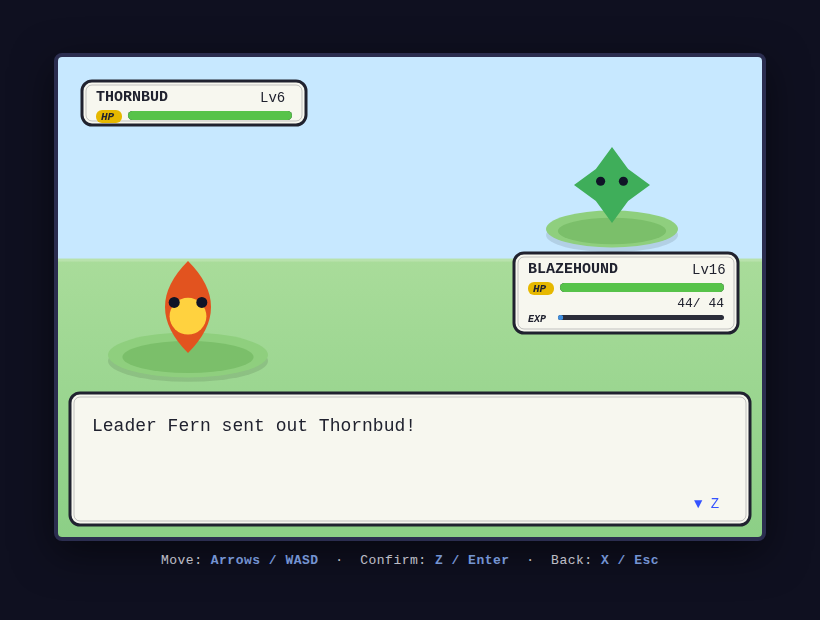
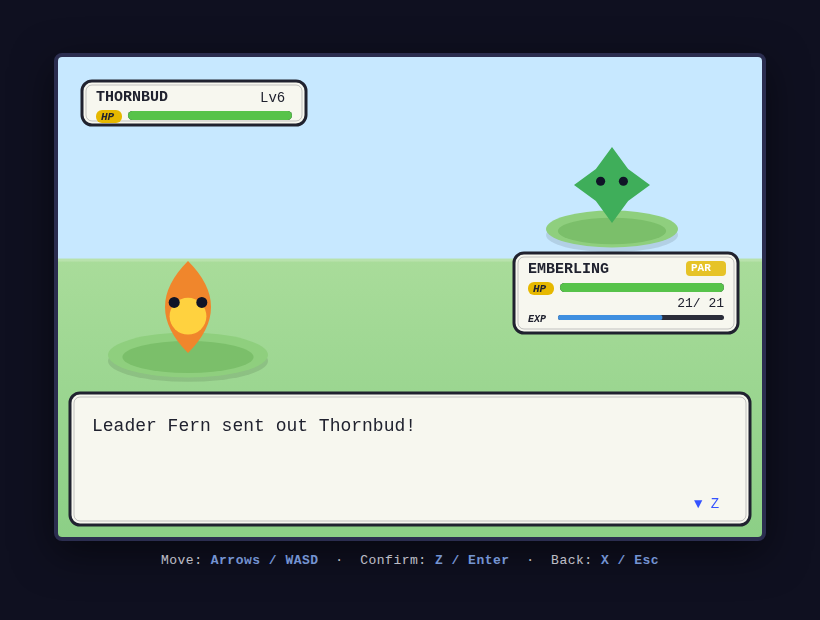
Storage PC — complete the catching/party system (#7)
Closes the one real dead-end: creatures caught while the party was full went to
storage with no way to retrieve them. A Storage PC (accessible at both Heal
Centers) now lets you deposit party members and withdraw stored creatures, with
guards (keep >=1 in party, respect the 6-slot cap). Box contents already persist
through save/load.

New STATE.PC screen (party | box panels), engine/pc.js, pc_render.js, and a PC
NPC in each center. Tests: logic +4 (deposit/withdraw invariants), UI +6 (open
PC, withdraw, deposit, exit). 264 total, all green.

Claude-Session: https://claude.ai/code/session_01VMdewH2fTNG76LLEnWsMm4

diff --git a/pokemon/src/render/pc_render.js b/pokemon/src/render/pc_render.js
@@ -1,0 +1,34 @@
+/* Storage PC screen: PARTY panel (left) and BOX panel (right); move creatures
+ * between them. */
+import { ctx, W, H } from "../core/screen.js";
+import { player, pc } from "../state.js";
+import { drawBox } from "./hud.js";
+
+function panel(title, list, x, y, w, h, active, index) {
+  drawBox(x, y, w, h, 8);
+  ctx.fillStyle = "#20222f"; ctx.textBaseline = "top"; ctx.textAlign = "left";
+  ctx.font = "bold 16px 'Courier New', monospace"; ctx.fillText(title, x + 16, y + 12);
+  ctx.font = "15px 'Courier New', monospace";
+  if (!list.length) { ctx.fillStyle = "#9a9aa6"; ctx.fillText("(empty)", x + 20, y + 44); }
+  list.slice(0, 8).forEach((c, i) => {
+    const sel = active && i === index;
+    ctx.fillStyle = sel ? "#d63c3c" : (c.hp > 0 ? "#20222f" : "#a0a0a8");
+    ctx.fillText((sel ? "▶ " : "  ") + `${c.name} Lv${c.level}`, x + 16, y + 42 + i * 22);
+  });
+}
+
+export function renderPc() {
+  ctx.fillStyle = "#1a2138"; ctx.fillRect(0, 0, W, H);
+  ctx.fillStyle = "#e9e9f2"; ctx.textAlign = "center"; ctx.textBaseline = "top";
+  ctx.font = "bold 20px 'Courier New', monospace"; ctx.fillText("STORAGE PC", W / 2, 20);
+  ctx.textAlign = "left";
+
+  const pw = (W - 60) / 2, ph = H - 130;
+  panel(`PARTY (${player.party.length}/6)`, player.party, 20, 60, pw, ph, pc.panel === 0, pc.index);
+  panel(`BOX (${player.box.length})`, player.box, 40 + pw, 60, pw, ph, pc.panel === 1, pc.index);
+
+  drawBox(20, H - 60, W - 40, 46, 8);
+  ctx.fillStyle = "#20222f"; ctx.font = "14px 'Courier New', monospace"; ctx.textBaseline = "top";
+  ctx.fillText(pc.panel === 0 ? "Z = deposit to box" : "Z = withdraw to party", 34, H - 46);
+  ctx.fillStyle = "#3553ff"; ctx.textAlign = "right"; ctx.fillText("←/→ switch  ·  X = exit", W - 34, H - 46); ctx.textAlign = "left";
+}

diff --git a/pokemon/src/engine/pc.js b/pokemon/src/engine/pc.js
@@ -1,0 +1,23 @@
+/* Storage PC: move creatures between the active party and box storage. */
+import { CONFIG } from "../data/config.js";
+import { player } from "../state.js";
+
+// Deposit a party member to the box. Keeps at least one creature in the party.
+export function depositToBox(i) {
+  if (player.party.length <= 1) return false;
+  const c = player.party[i];
+  if (!c) return false;
+  player.party.splice(i, 1);
+  player.box.push(c);
+  return true;
+}
+
+// Withdraw a stored creature to the party (up to the party cap).
+export function withdrawFromBox(i) {
+  if (player.party.length >= CONFIG.party.max) return false;
+  const c = player.box[i];
+  if (!c) return false;
+  player.box.splice(i, 1);
+  player.party.push(c);
+  return true;
+}

diff --git a/pokemon/src/input.js b/pokemon/src/input.js
@@ -1,11 +1,12 @@
 /* Keyboard input: held directions for walking + discrete presses routed by
  * game state (title menu, dialog, overworld, battle). */
-import { STATE, game, shop } from "./state.js";
+import { STATE, game, shop, pc, player } from "./state.js";
 import { advanceDialog } from "./engine/dialog.js";
 import { interact, tryMove } from "./engine/world.js";
 import { battleInput } from "./engine/battle.js";
 import { newGame, continueGame, saveGame } from "./engine/save.js";
 import { buyItem } from "./engine/shop.js";
+import { depositToBox, withdrawFromBox } from "./engine/pc.js";
 import { titleOptions } from "./render/scenes.js";
 
 export const keys = new Set();
@@ -28,8 +29,20 @@ export function onPress(a) {
       break;
     case STATE.BATTLE: battleInput(a); break;
     case STATE.SHOP: shopInput(a); break;
+    case STATE.PC: pcInput(a); break;
     case STATE.CREDITS: break;
   }
+}
+
+function pcInput(a) {
+  if (a === "left") pc.panel = 0;
+  if (a === "right") pc.panel = 1;
+  const list = pc.panel === 0 ? player.party : player.box;
+  const n = Math.max(1, list.length);
+  if (a === "up") pc.index = (pc.index - 1 + n) % n;
+  if (a === "down") pc.index = (pc.index + 1) % n;
+  if (a === "action") { (pc.panel === 0 ? depositToBox : withdrawFromBox)(pc.index); pc.index = 0; }
+  if (a === "cancel") { saveGame(); game.state = STATE.WORLD; }
 }
 
 function shopInput(a) {

diff --git a/pokemon/src/engine/world.js b/pokemon/src/engine/world.js
@@ -3,7 +3,7 @@ import { CONFIG } from "../data/config.js";
 import { MAPS, WARPS, GATES, npcAt, isBlocked, tileAt, isEncounterTile } from "../data/maps.js";
 import { ENCOUNTERS } from "../data/encounters.js";
 import { STORY } from "../data/story.js";
-import { STATE, DIRV, player, game, flags, shop } from "../state.js";
+import { STATE, DIRV, player, game, flags, shop, pc } from "../state.js";
 import { SHOP_STOCK } from "../data/items.js";
 import { rand } from "../core/rng.js";
 import { say } from "./dialog.js";
@@ -96,6 +96,9 @@ export function interact() {
       break;
     case "shop":
       say(STORY.shopWelcome, () => { shop.stock = SHOP_STOCK.slice(); shop.index = 0; game.state = STATE.SHOP; });
+      break;
+    case "pc":
+      say(STORY.pcBoot, () => { pc.panel = 0; pc.index = 0; game.state = STATE.PC; });
       break;
     case "trainer":
       if (npc.defeated) { say([`${npc.name}: Great battle earlier!`]); break; }

diff --git a/pokemon/src/data/maps.js b/pokemon/src/data/maps.js
@@ -119,8 +119,8 @@ export const GATES = {
 
 export const NPCS = {
   lab: [{ x: 6, y: 2, color: "#e6e6e6", role: "prof", name: "Prof. Cedar" }],
-  center: [{ x: 6, y: 2, color: "#ff8fb0", role: "nurse", name: "Nurse" }],
-  center2: [{ x: 6, y: 2, color: "#ff8fb0", role: "nurse", name: "Nurse" }],
+  center: [{ x: 6, y: 2, color: "#ff8fb0", role: "nurse", name: "Nurse" }, { x: 3, y: 2, color: "#8fd0ff", role: "pc", name: "Storage PC" }],
+  center2: [{ x: 6, y: 2, color: "#ff8fb0", role: "nurse", name: "Nurse" }, { x: 3, y: 2, color: "#8fd0ff", role: "pc", name: "Storage PC" }],
   mart: [{ x: 6, y: 2, color: "#8fd0ff", role: "shop", name: "Clerk" }],
   gym: [{ x: 6, y: 2, color: "#2f9e57", role: "gym", name: "Leader Fern", badge: 0, intro: "gymIntro", done: "gymDone",
           party: [{ species: "thornbud", level: 6 }] }],

diff --git a/pokemon/src/state.js b/pokemon/src/state.js
@@ -2,7 +2,7 @@
 import { CONFIG } from "./data/config.js";
 
 export const STATE = {
-  TITLE: "title", WORLD: "world", DIALOG: "dialog", BATTLE: "battle", SHOP: "shop", CREDITS: "credits",
+  TITLE: "title", WORLD: "world", DIALOG: "dialog", BATTLE: "battle", SHOP: "shop", PC: "pc", CREDITS: "credits",
 };
 
 export const DIRV = { up: [0, -1], down: [0, 1], left: [-1, 0], right: [1, 0] };
@@ -20,6 +20,7 @@ export const player = {
 };
 
 export const shop = { stock: [], index: 0 };
+export const pc = { panel: 0, index: 0 };   // panel 0 = party, 1 = box
 
 export const game = {
   state: STATE.TITLE, afterDialog: null, tick: 0,

diff --git a/pokemon/src/game.js b/pokemon/src/game.js
@@ -23,6 +23,7 @@ import { objective } from "./engine/objective.js";
 import { renderWorld } from "./render/world_render.js";
 import { renderBattle } from "./render/battle_render.js";
 import { renderShop } from "./render/shop_render.js";
+import { renderPc } from "./render/pc_render.js";
 import { renderTitle, renderCredits } from "./render/scenes.js";
 import { keys, onPress, initInput } from "./input.js";
 
@@ -40,6 +41,7 @@ function render() {
   if (game.state === STATE.CREDITS) return renderCredits();
   if (game.state === STATE.BATTLE) return renderBattle();
   if (game.state === STATE.SHOP) return renderShop();
+  if (game.state === STATE.PC) return renderPc();
   renderWorld();
 }
 

diff --git a/pokemon/src/data/story.js b/pokemon/src/data/story.js
@@ -81,6 +81,7 @@ export const STORY = {
   },
 
   shopWelcome: ["Clerk: Welcome to the Mart! What can I get you?"],
+  pcBoot: ["You booted up the Storage PC."],
 };
 
 // Rolling credits shown after clearing the final gym.